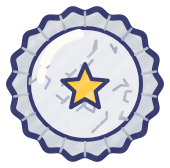
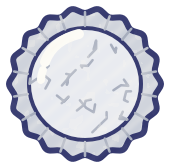
Tinfoil shield: no star in the middle

Changed region(s): [[0.3529, 0.3571, 0.6471, 0.6548]]

diff --git a/tools/art/items.py b/tools/art/items.py
@@ -537,8 +537,7 @@ def marker():
 def foil_shield():
     """
     A paper plate wrapped in kitchen foil - the shield every kid has made - so it is a shield and
-    a mirror at once: crinkled silver, a fluted rim, a gleam across it, and a gold star stuck on
-    the middle. Seen face on, held up in front of him.
+    a mirror at once: crinkled silver, a fluted rim and a gleam across it. Seen face on, held up in front of him.
     """
     cx = cy = 84.0
     rim = []
@@ -564,10 +563,9 @@ def foil_shield():
         a = 2 * math.pi * (i + 0.5) / 18
         s += L('M %s,%s L %s,%s' % (num(cx + 58 * math.cos(a)), num(cy + 58 * math.sin(a)),
                                     num(cx + 72 * math.cos(a)), num(cy + 72 * math.sin(a))), 2.5, 'silver_dark')
-    # The gleam, and a star stuck on the middle.
+    # The gleam.
     s += L('M 44,62 C 50,46 62,38 78,34', 10, 'white')
     s += L('M 40,80 C 40,76 41,73 42,70', 8, 'white')
-    s += P(star(cx, cy + 4, 24, 11), 'gold', 'wi')
     return s, (168, 168), (cx, cy), (cx, cy)
 
 
